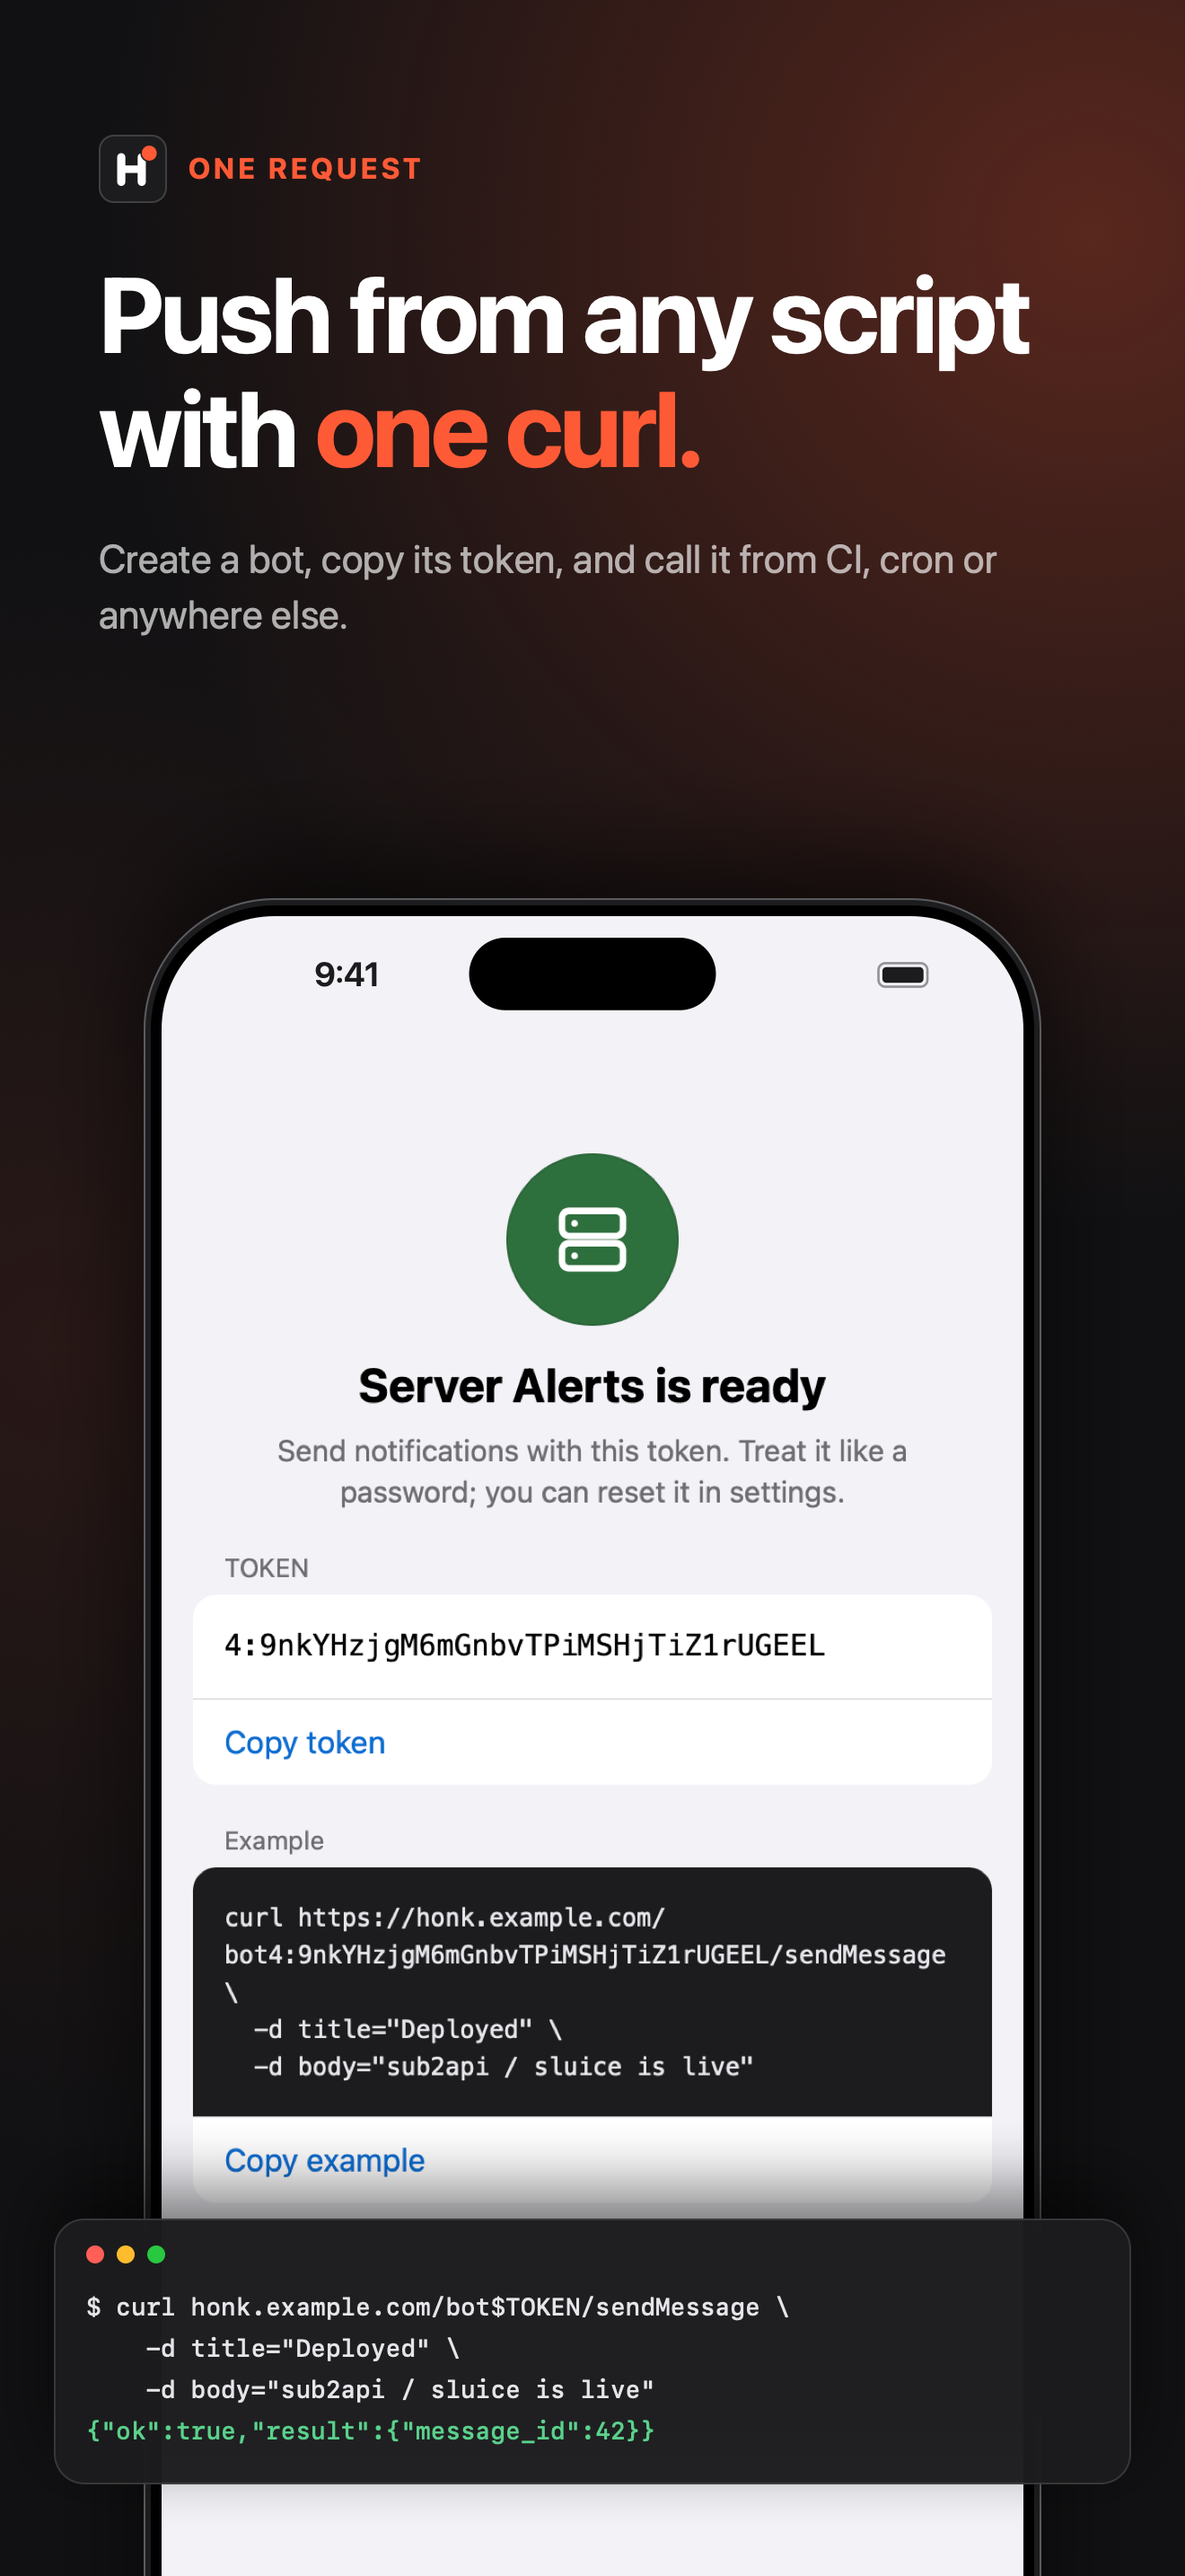
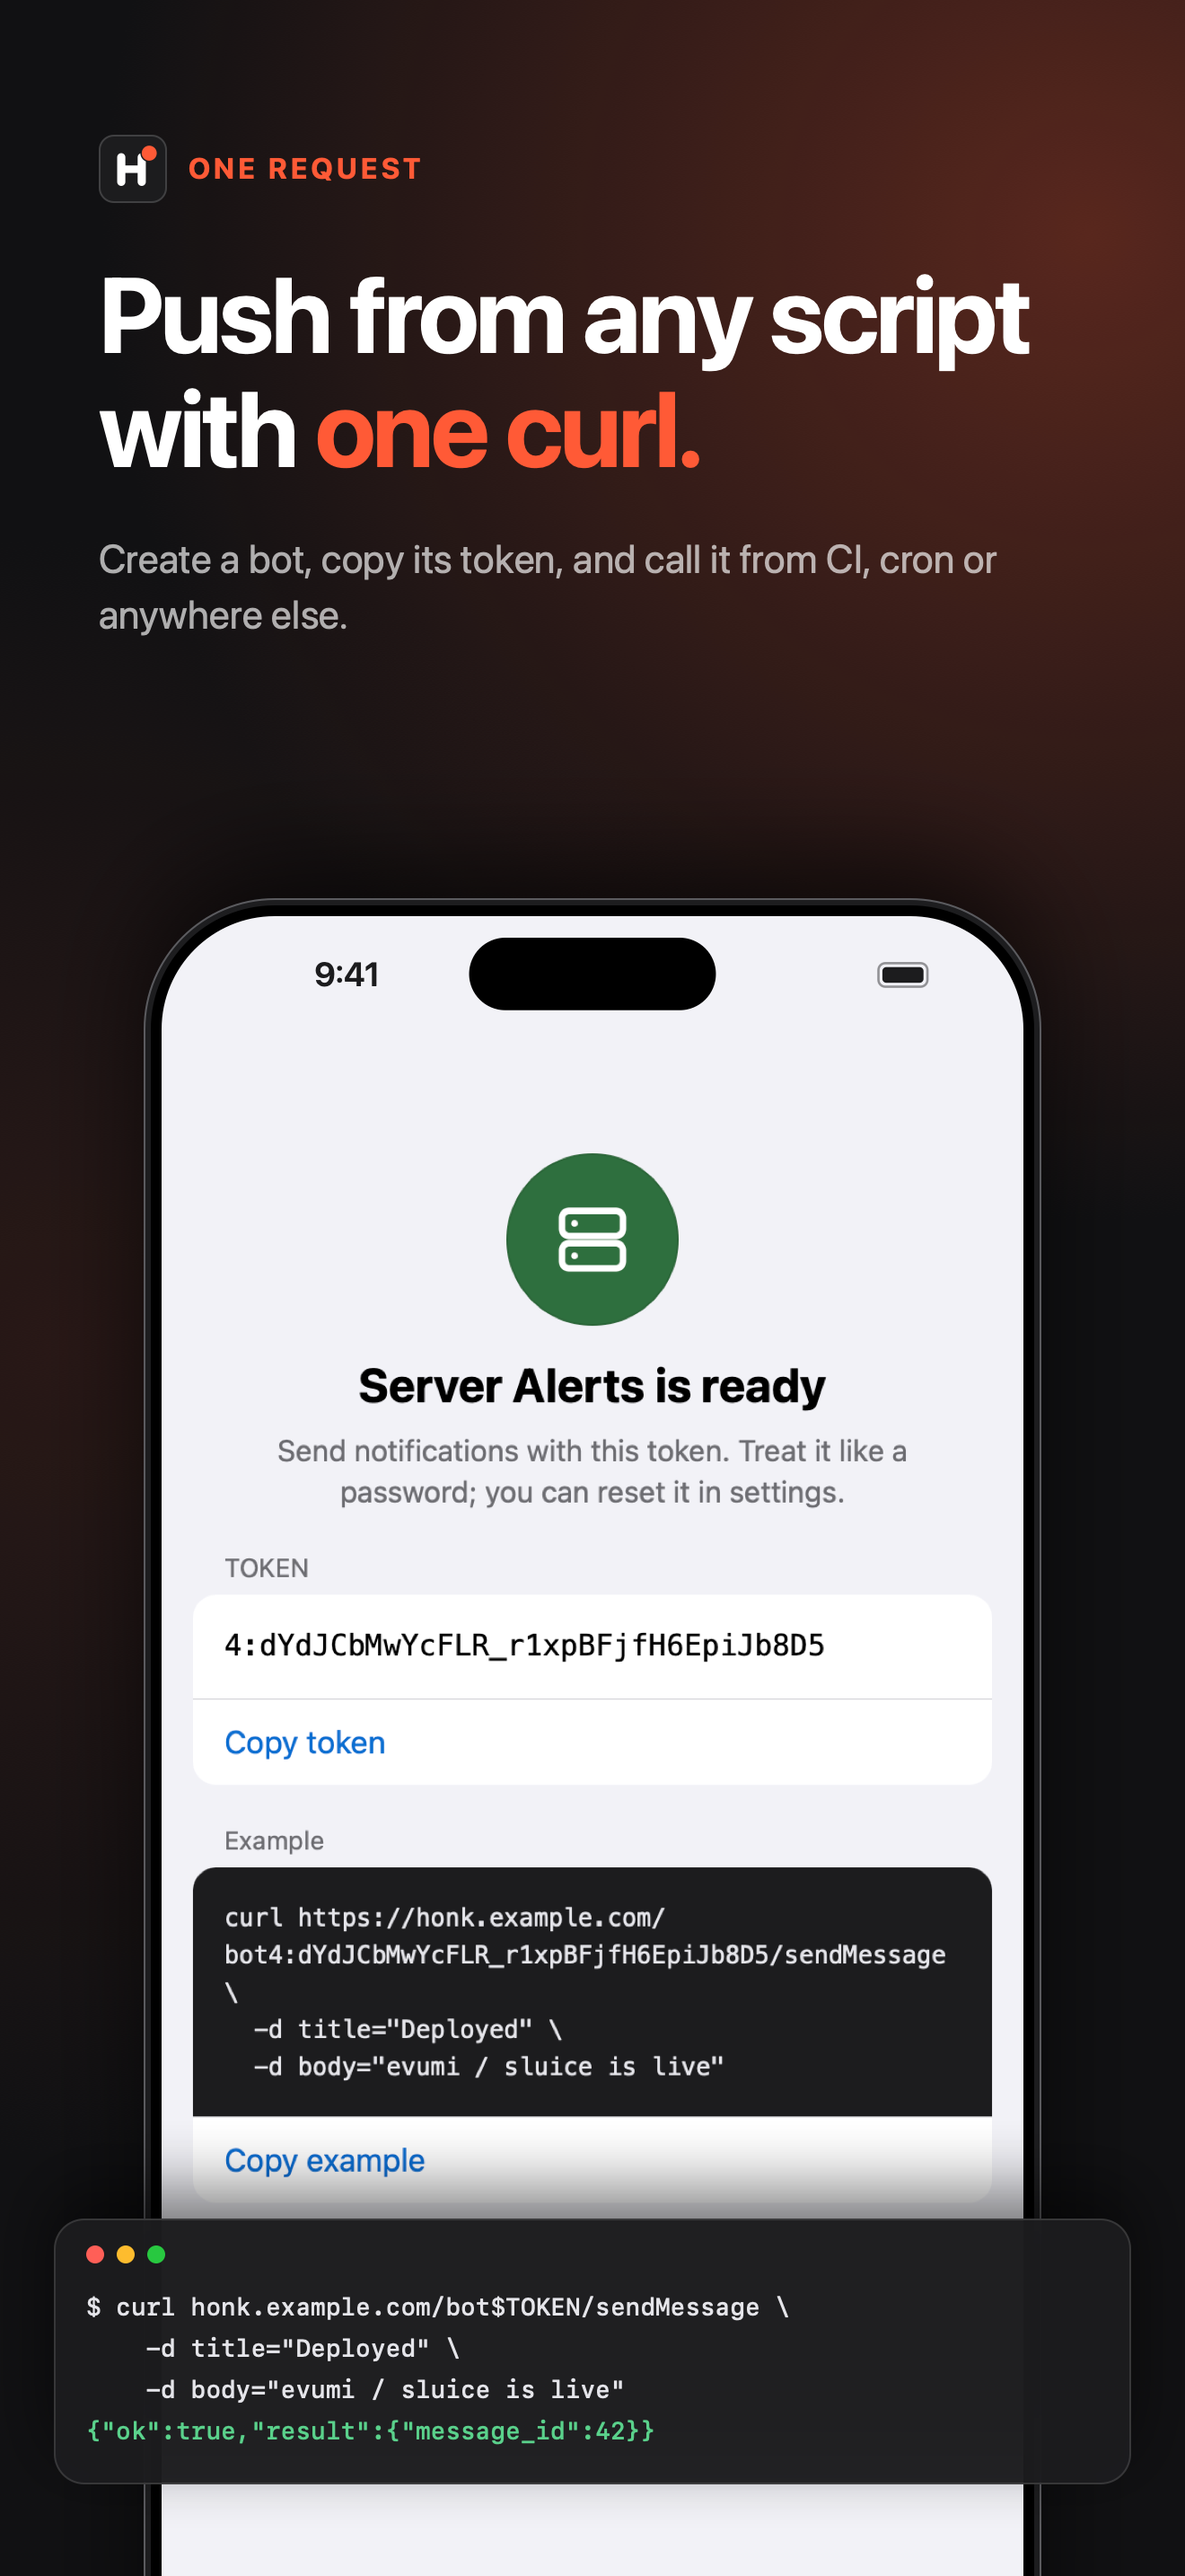
release: RGB App Store assets, fix asc archive destination (#11)
* release: RGB App Store icon and screenshots, fix the archive destination

- render.swift writes the iOS app icon and the App Store screenshots
  without an alpha channel (App Store Connect rejects alpha_channel even
  when every pixel is opaque); the other brand PNGs keep transparency.
  The committed screenshots are re-encoded losslessly (same pixels; all
  alpha was 255), the icon re-rendered (same pixels).
- scripts/check-app-store-assets.sh fails on an alpha channel; CI runs it.
- asc 6.6.1 has no --destination on xcode archive: pass it through
  --xcodebuild-flag. Pin setup-asc to 6.6.1.

* App Store images: evumi / sluice instead of sub2api / sluice

The demo data, the curl example and the drawn lock screen name the
service evumi; the screenshots are recaptured and re-rendered (RGB).

* ios-release: drop the asc auth check that never checked, and ASC_NO_UPDATE

asc 6.6.1's auth status --validate reads stored credentials only, so in
CI it passed without looking at the ASC_* key; next-build-number is the
real first check. ASC_NO_UPDATE is not read by 6.6.1.

---------

diff --git a/scripts/brand/render.swift b/scripts/brand/render.swift
@@ -75,9 +75,13 @@ struct Mark {
 
 // MARK: drawing helpers (top-left origin)
 
-func canvas(_ w: Int, _ h: Int, _ draw: (CGContext) -> Void) -> Data {
+/// Draws a PNG. `opaque` ones have no alpha channel (RGB): App Store Connect
+/// rejects an app icon or screenshot with one, even when every pixel is opaque.
+/// Draw a full background into those; what is left undrawn comes out black.
+func canvas(_ w: Int, _ h: Int, opaque: Bool = false, _ draw: (CGContext) -> Void) -> Data {
+    let alpha: CGImageAlphaInfo = opaque ? .noneSkipLast : .premultipliedLast
     let cx = CGContext(data: nil, width: w, height: h, bitsPerComponent: 8, bytesPerRow: 0,
-                       space: CGColorSpace(name: CGColorSpace.sRGB)!, bitmapInfo: CGImageAlphaInfo.premultipliedLast.rawValue)!
+                       space: CGColorSpace(name: CGColorSpace.sRGB)!, bitmapInfo: alpha.rawValue)!
     cx.translateBy(x: 0, y: CGFloat(h))
     cx.scaleBy(x: 1, y: -1)
     let ns = NSGraphicsContext(cgContext: cx, flipped: true)
@@ -159,7 +163,7 @@ for size in [1024, 512, 256, 128] {
 }
 
 // iOS: one full-bleed 1024 icon; the system rounds it.
-let appIcon = canvas(1024, 1024) { cx in Mark.draw(cx, in: CGRect(x: 0, y: 0, width: 1024, height: 1024), background: ink, cornerRadius: nil) }
+let appIcon = canvas(1024, 1024, opaque: true) { cx in Mark.draw(cx, in: CGRect(x: 0, y: 0, width: 1024, height: 1024), background: ink, cornerRadius: nil) }
 write(appIcon, "ios/App/Assets.xcassets/AppIcon.appiconset/AppIcon-1024.png")
 write("""
 {
@@ -293,8 +297,8 @@ let shots: [Shot] = [
          subtitle: ["en": "Create a bot, copy its token, and call it from CI, cron or anywhere else.", "zh-Hans": "建一个 Bot，复制 token，\n接进 CI、定时任务和任何脚本。"],
          screen: "created.png", navBar: (106, 0xf2f2f7, [:]),
          terminal: [
-            "en": [("$ curl honk.example.com/bot$TOKEN/sendMessage \\", 0xe5e5ea), ("    -d title=\"Deployed\" \\", 0xe5e5ea), ("    -d body=\"sub2api / sluice is live\"", 0xe5e5ea), ("{\"ok\":true,\"result\":{\"message_id\":42}}", 0x5ad18b)],
-            "zh-Hans": [("$ curl honk.example.com/bot$TOKEN/sendMessage \\", 0xe5e5ea), ("    -d title=\"部署成功\" \\", 0xe5e5ea), ("    -d body=\"sub2api / sluice 已上线\"", 0xe5e5ea), ("{\"ok\":true,\"result\":{\"message_id\":42}}", 0x5ad18b)],
+            "en": [("$ curl honk.example.com/bot$TOKEN/sendMessage \\", 0xe5e5ea), ("    -d title=\"Deployed\" \\", 0xe5e5ea), ("    -d body=\"evumi / sluice is live\"", 0xe5e5ea), ("{\"ok\":true,\"result\":{\"message_id\":42}}", 0x5ad18b)],
+            "zh-Hans": [("$ curl honk.example.com/bot$TOKEN/sendMessage \\", 0xe5e5ea), ("    -d title=\"部署成功\" \\", 0xe5e5ea), ("    -d body=\"evumi / sluice 已上线\"", 0xe5e5ea), ("{\"ok\":true,\"result\":{\"message_id\":42}}", 0x5ad18b)],
          ]),
     Shot(file: "05-dark",
          kicker: ["en": "DARK MODE", "zh-Hans": "深色模式"],
@@ -358,7 +362,7 @@ func drawLockScreen(_ cx: CGContext, _ r: CGRect, lang: String) {
     let notes = [
         Note(app: en ? "Server Alerts" : "服务器告警", symbol: "exclamationmark.triangle", color: 0xc2410c, title: "hk-edge-02 CPU 92%",
              body: en ? "Above the 85% threshold for 5 minutes." : "持续 5 分钟超过阈值 85%，负载 7.8。", time: en ? "now" : "现在", flag: en ? "TIME SENSITIVE" : "时效性通知"),
-        Note(app: en ? "Berth Deploys" : "Berth 部署", symbol: "ferry", color: 0x1c1c1e, title: en ? "Deployed: sub2api / sluice" : "部署成功：sub2api / sluice",
+        Note(app: en ? "Berth Deploys" : "Berth 部署", symbol: "ferry", color: 0x1c1c1e, title: en ? "Deployed: evumi / sluice" : "部署成功：evumi / sluice",
              body: en ? "Live in production." : "production 环境的部署已上线。", time: en ? "2m ago" : "2 分钟前", flag: nil),
         Note(app: en ? "CI Builds" : "CI 构建", symbol: "checkmark.circle", color: 0x2f6f3e, title: en ? "main #482 passed" : "main #482 通过",
              body: en ? "3m 12s · all 128 tests passed" : "3 分 12 秒 · 128 个测试全部通过", time: en ? "8m ago" : "8 分钟前", flag: nil),
@@ -410,7 +414,7 @@ func drawTerminal(_ cx: CGContext, lines: [(String, UInt32)], frame: CGRect) {
 
 for lang in ["en", "zh-Hans"] {
     for shot in shots {
-        let png = canvas(Int(W), Int(H)) { cx in
+        let png = canvas(Int(W), Int(H), opaque: true) { cx in
             cx.setFillColor(base)
             cx.fill(CGRect(x: 0, y: 0, width: W, height: H))
             glow(cx, center: CGPoint(x: W * 0.92, y: 260), radius: 1100, color: shot.glowColor, alpha: 0.30)

diff --git a/app/src/demo.ts b/app/src/demo.ts
@@ -38,8 +38,8 @@ const messages: Message[] = [
   }),
   msg(2, 75, { title: "hk-edge-02 CPU 92%", body: L("持续 5 分钟超过阈值 85%，负载 7.8。", "Above the 85% threshold for 5 minutes, load 7.8.") }),
   msg(1, 38, {
-    title: L("部署成功", "Deployed"), body: L("部署成功：sub2api / sluice (production) 已上线。", "sub2api / sluice is live in production."), html: card,
-    data: JSON.stringify({ status: L("已上线", "Live"), dot: "#1a9e6e", service: "sub2api / sluice", env: "production", deploy_id: "dep_w3tn2cnlrvwtspmjmpol", url: "https://example.com" }),
+    title: L("部署成功", "Deployed"), body: L("部署成功：evumi / sluice (production) 已上线。", "evumi / sluice is live in production."), html: card,
+    data: JSON.stringify({ status: L("已上线", "Live"), dot: "#1a9e6e", service: "evumi / sluice", env: "production", deploy_id: "dep_w3tn2cnlrvwtspmjmpol", url: "https://example.com" }),
   }),
   msg(1, 25, { title: L("每日部署汇总", "Daily deploy summary"), body: L("今天共 6 次部署，5 次成功，1 次回滚。", "6 deploys today: 5 succeeded, 1 rolled back.") }),
 ];

diff --git a/app/src/format.ts b/app/src/format.ts
@@ -59,5 +59,5 @@ export function levelLabel(l: string): string {
 /** The curl example for a bot. */
 export function curlExample(gateway: string, token: string): string {
   const base = gateway.endsWith("/") ? gateway : gateway + "/";
-  return `curl ${base}bot${token}/sendMessage \\\n  -d title="${tr("部署成功")}" \\\n  -d body="${tr("sub2api / sluice 已上线")}"`;
+  return `curl ${base}bot${token}/sendMessage \\\n  -d title="${tr("部署成功")}" \\\n  -d body="${tr("evumi / sluice 已上线")}"`;
 }

diff --git a/app/src/i18n.ts b/app/src/i18n.ts
@@ -93,7 +93,7 @@ const EN: Record<string, string> = {
   "复制示例": "Copy example",
   "进入会话": "Open chat",
   "部署成功": "Deployed",
-  "sub2api / sluice 已上线": "sub2api / sluice is live",
+  "evumi / sluice 已上线": "evumi / sluice is live",
   // bot settings
   "重置 token？": "Reset the token?",
   "旧 token 立即失效，用到它的发送方需要换成新的。": "The old token stops working at once; senders using it need the new one.",

diff --git a/public/appstore/README.md b/public/appstore/README.md
@@ -21,4 +21,4 @@ scripts/brand/capture-screens.sh build/screens-zh zh-Hans-CN
 swift scripts/brand/render.swift build/screens-en build/screens-zh
 ```
 
-The copy is in `shots` in `scripts/brand/render.swift`. The lock screen is drawn, not captured.
+The copy is in `shots` in `scripts/brand/render.swift`. It writes these images and the iOS app icon as RGB PNGs: App Store Connect rejects ones with an alpha channel (`alpha_channel`), even fully opaque. `scripts/check-app-store-assets.sh` checks that (CI runs it); the other brand PNGs keep their transparency. The lock screen is drawn, not captured.
